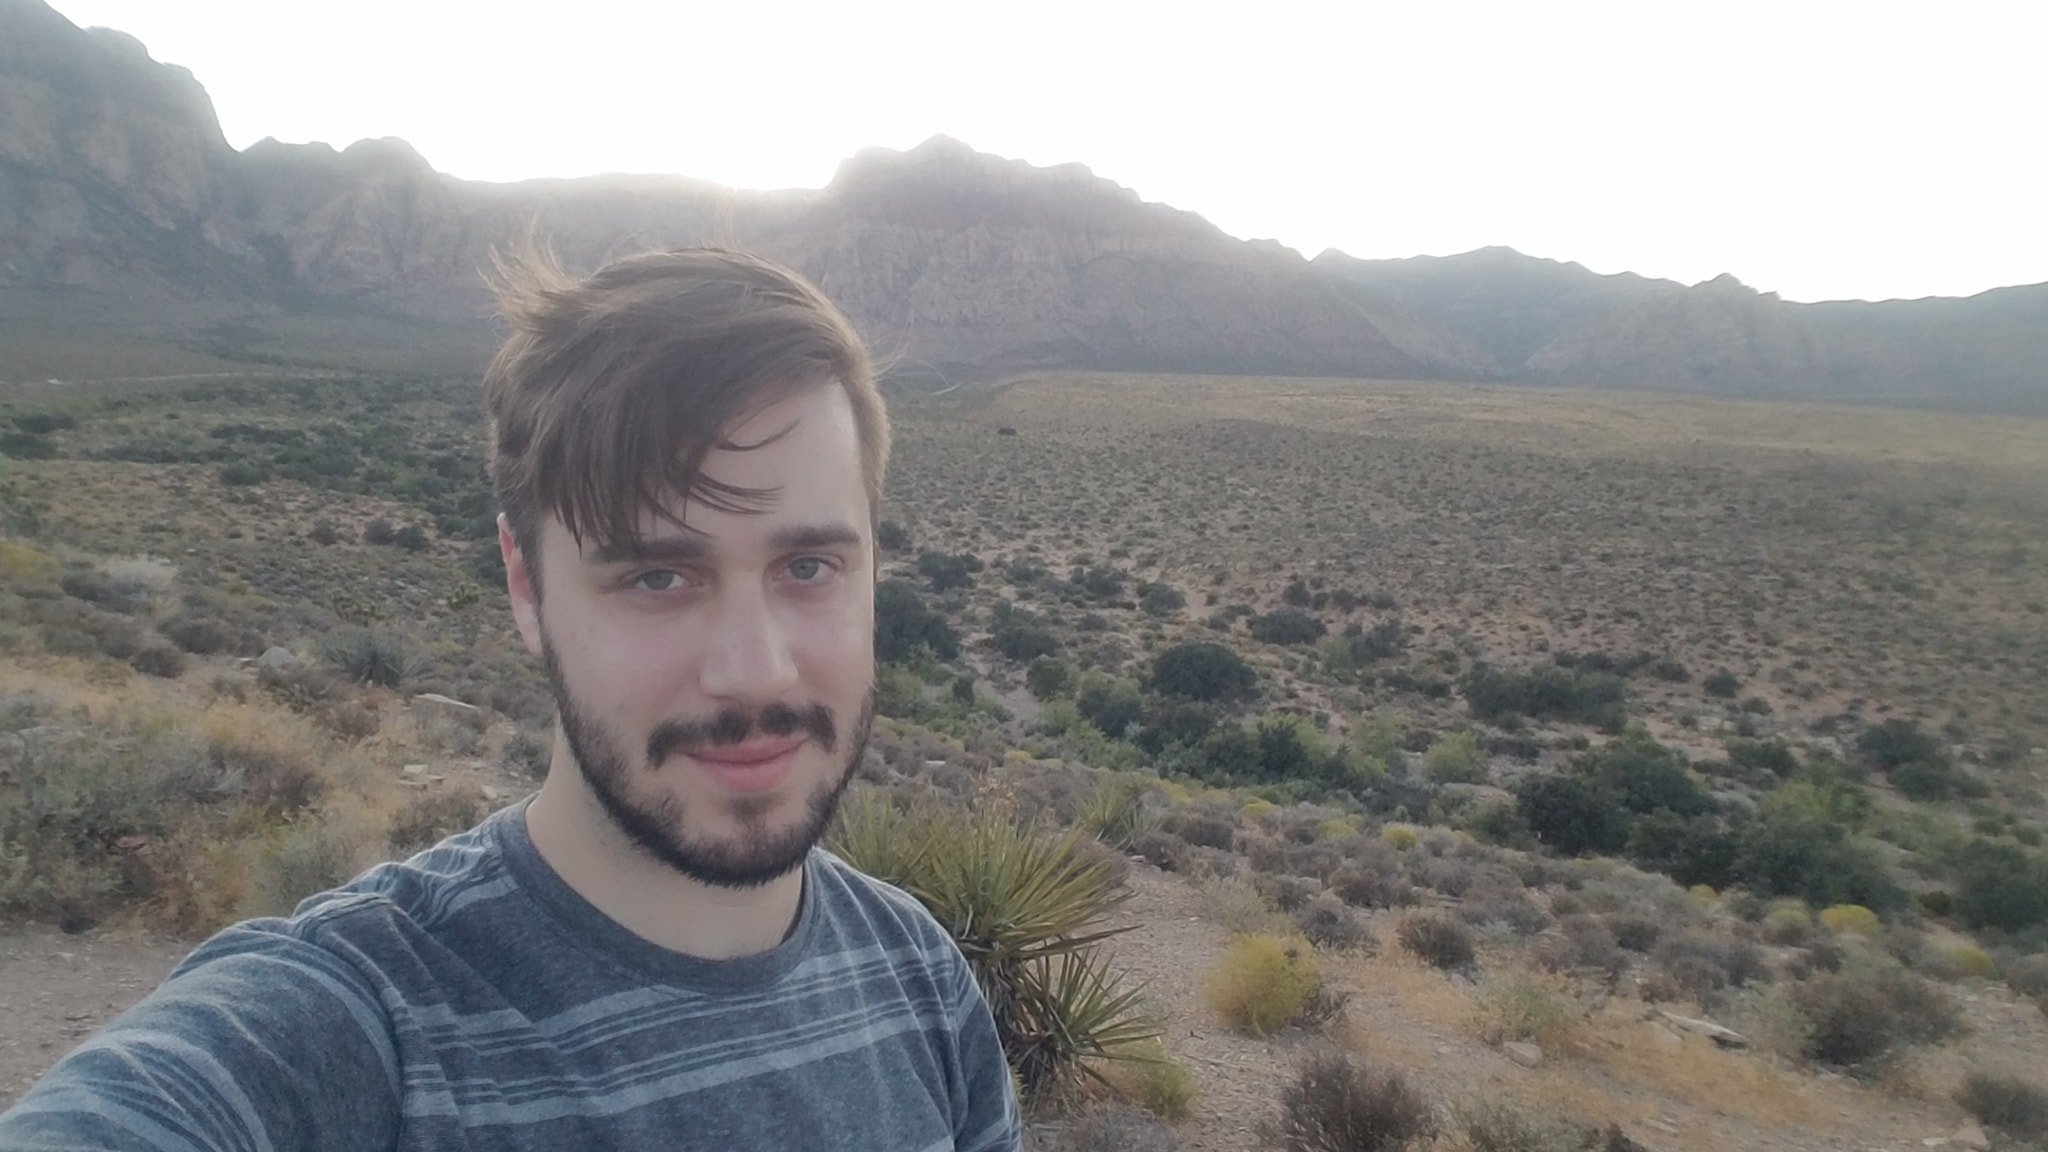
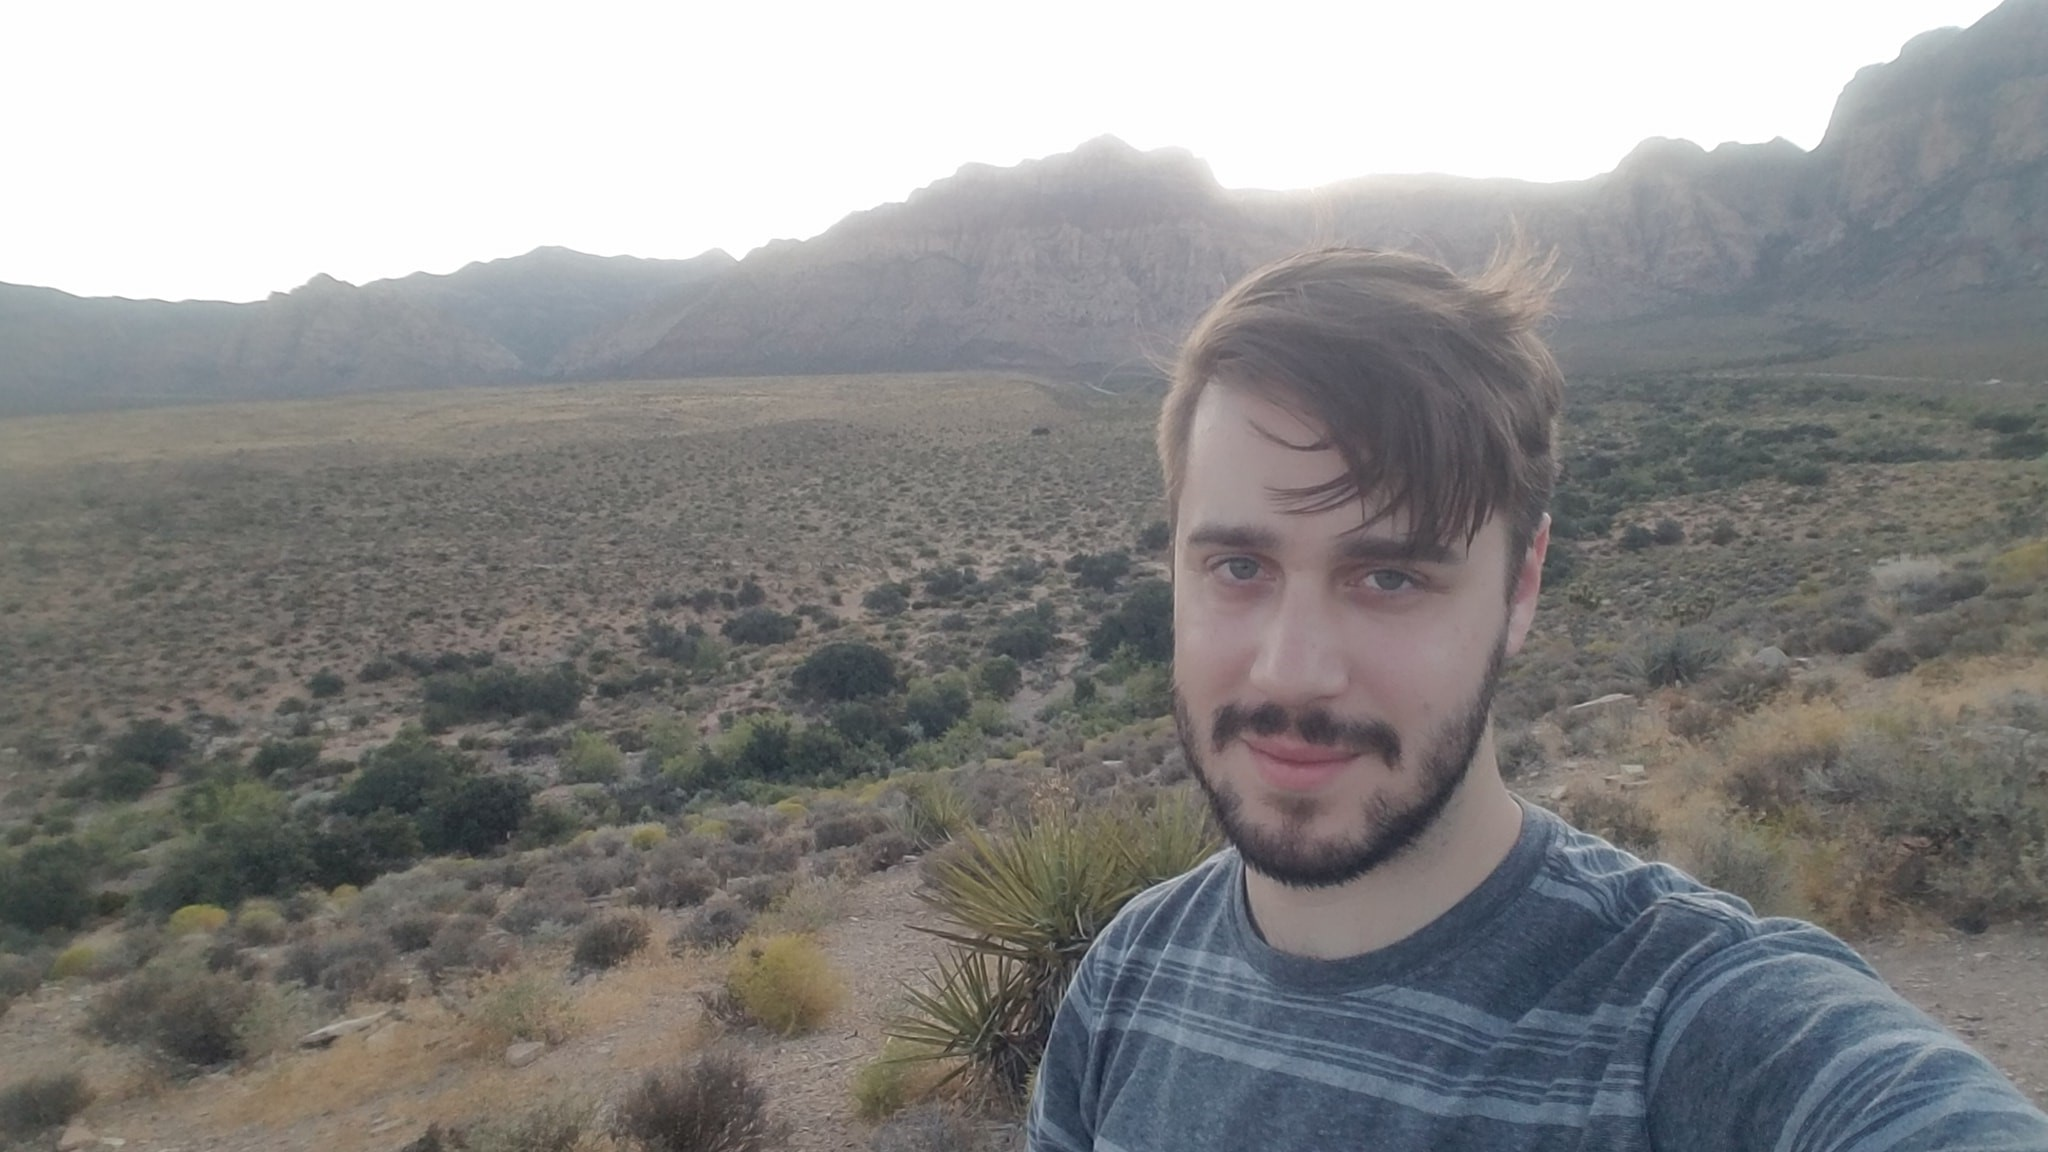
contact info added

diff --git a/index.html b/index.html
@@ -5,7 +5,7 @@
     <meta name="viewport" content="width=device-width, initial-scale=1">
     <meta http-equiv="X-UA-Compatible" content="IE=edge" />
     <meta charset="UTF-8">
-    <title>Christopher Lunetta - Web Developer</title>
+    <title>Christopher Lunetta | Web Developer</title>
 
     <!-- ====== Google Fonts ====== -->
     <link href="https://fonts.googleapis.com/css?family=Source+Sans+Pro:300,400,600" rel="stylesheet">
@@ -95,7 +95,7 @@
             </div>
             <!-- <div class="single-slider"> -->
                 <!-- Single Background -->
-                <!-- <div class="slider-bg" style="background-image: url(assets/images/hero-area/img-2.jpg)"></div> -->
+                <!-- <div class="slider-bg" style="background-image: url(assets/images/hero-area/img-3.jpg)"></div> -->
                 <!-- // Single Background -->
             <!-- </div> -->
         </div>
@@ -166,7 +166,7 @@
             <!-- //Section Title -->
             <div class="row">
                 <div class="col-lg-6">
-                    <div class="about-bg" style="background-image:url(assets/images/about-bg.jpg)">
+                    <div class="about-bg" style="background-image:url(assets/images/Chris-About.png)">
                         <!-- Social Link -->
                         <div class="social-aria">
                             <a target="_blank" href="https://www.linkedin.com/in/christopher-lunetta/"><i class="fab fa-linkedin-in"></i></a>
@@ -960,17 +960,46 @@
                 <div class="col-lg-6 ">
                     <div class="section-title text-center">
                         <h2>Contact Me</h2>
-                        <p>Lorem ipsum dolor sit amet, consectetur adipisicing elit.</p>
+                        <p>Let's Connect!</p>
                     </div>
                 </div>
             </div>
             <!-- //Section Title -->
 
-            <!-- Contact Form -->
+            <!-- Contact Info -->
             <div class="row justify-content-center">
-                <div class="col-lg-10">
+                <div class="col contact-form bg-white">
+                    <div class="row info text-center mb-50">
+                        <div class="col-md-4 ">
+                            <div class="item">
+                                <span class="icon">
+                                    <i class="fa fa-location-arrow" aria-hidden="true"></i>
+                                </span>
+                                <h6>Location</h6>
+                                <p>Nashville, Tennessee</p>
+                            </div>
+                        </div>
+                        <div class="col-md-4">
+                            <div class="item">
+                                <span class="icon">
+                                    <i class="fa fa-envelope" aria-hidden="true"></i>
+                                </span>
+                                <h6>Email</h6>
+                                <p>cslunetta@outlook.com</p>
+                            </div>
+                        </div>
+                        <div class="col-md-4">
+                            <div class="item">
+                                <span class="icon">
+                                    <i class="fab fa-github" aria-hidden="true"></i>
+                                </span>
+                                <h6>Github</h6>
+                                <p>https://github.com/cslunetta</p>
+                            </div>
+                        </div>
+                    </div>
                     <!-- Form -->
-                    <form id="contact-form" action="mail.php" method="post" class="contact-form bg-white">
+                    <!-- <form id="contact-form" action="mail.php" method="post" class="contact-form bg-white">
                         <div class="row">
                             <div class="col-lg-6 form-group">
                                 <input type="text" class="form-control" name="name" required placeholder="Name">
@@ -990,7 +1019,7 @@
                             <button class="button" type="submit">Send Message</button>
                             <p class="form-message"></p>
                         </div>
-                    </form>
+                    </form> -->
                     <!-- // Form -->
                 </div>
             </div>
@@ -1006,7 +1035,7 @@
             <div class="row">
                 <div class="col-lg-12 text-center">
                     <div class="copyright-text">
-                        <p class="text-white">&copy; 2018 <a href="https://www.begindot.com/">A Template Designed by Begindot</a></p>
+                        <p class="text-white">Copyright 2021 &copy; By Christopher Lunetta All Rights Reserved</p>
                     </div>
                 </div>
             </div>
@@ -1019,15 +1048,15 @@
 
 
 
-     <!-- ====== ALL JS ====== -->
-   <script src="assets/js/jquery-3.3.1.min.js"></script>
+    <!-- ====== ALL JS ====== -->
+    <script src="assets/js/jquery-3.3.1.min.js"></script>
     <script src="assets/js/bootstrap.min.js"></script>
     <script src="assets/js/lightbox.min.js"></script>
     <script src="assets/js/owl.carousel.min.js"></script>
     <script src="assets/js/jquery.mixitup.js"></script>
     <script src="assets/js/wow.min.js"></script>
     <script src="assets/js/typed.js"></script>
-    <script src="assets/js/skill.bar.js"></script>
+    <!-- <script src="assets/js/skill.bar.js"></script> -->
     <!-- <script src="assets/js/fact.counter.js"></script> -->
     <script src="assets/js/main.js"></script>
 

diff --git a/assets/js/main.js b/assets/js/main.js
@@ -88,35 +88,35 @@
     /*::::::::::::::::::::::::::::::::::::
        Contact Area 
     ::::::::::::::::::::::::::::::::::::*/
-    var form = $('#contact-form');
+    // var form = $('#contact-form');
 
-    var formMessages = $('.form-message');
-    $(form).submit(function (e) {
-        e.preventDefault();
-        var formData = $(form).serialize();
-        $.ajax({
-                type: 'POST',
-                url: $(form).attr('action'),
-                data: formData
-            })
-            .done(function (response) {
-                $(formMessages).removeClass('error');
-                $(formMessages).addClass('success');
-                $(formMessages).text(response);
+    // var formMessages = $('.form-message');
+    // $(form).submit(function (e) {
+    //     e.preventDefault();
+    //     var formData = $(form).serialize();
+    //     $.ajax({
+    //             type: 'POST',
+    //             url: $(form).attr('action'),
+    //             data: formData
+    //         })
+    //         .done(function (response) {
+    //             $(formMessages).removeClass('error');
+    //             $(formMessages).addClass('success');
+    //             $(formMessages).text(response);
 
-                $('#contact-form input,#contact-form textarea').val('');
-            })
-            .fail(function (data) {
-                $(formMessages).removeClass('success');
-                $(formMessages).addClass('error');
+    //             $('#contact-form input,#contact-form textarea').val('');
+    //         })
+    //         .fail(function (data) {
+    //             $(formMessages).removeClass('success');
+    //             $(formMessages).addClass('error');
 
-                if (data.responseText !== '') {
-                    $(formMessages).text(data.responseText);
-                } else {
-                    $(formMessages).text('Oops! An error occured and your message could not be sent.');
-                }
-            });
-    });
+    //             if (data.responseText !== '') {
+    //                 $(formMessages).text(data.responseText);
+    //             } else {
+    //                 $(formMessages).text('Oops! An error occured and your message could not be sent.');
+    //             }
+    //         });
+    // });
     
     
     /*::::::::::::::::::::::::::::::::::::

diff --git a/style.css b/style.css
@@ -120,7 +120,7 @@ img {
 }
 
 .bg-primari {
-    background-color: #000 !important;
+    background-color: #333 !important;
 }
 
 .bg-secondary {
@@ -616,7 +616,7 @@ button:focus {
     content: '';
     width: 100%;
     height: 5px;
-    background-color: #000;
+    background-color: #333;
     z-index: -1;
     -webkit-transition: .3s;
     transition: .3s;
